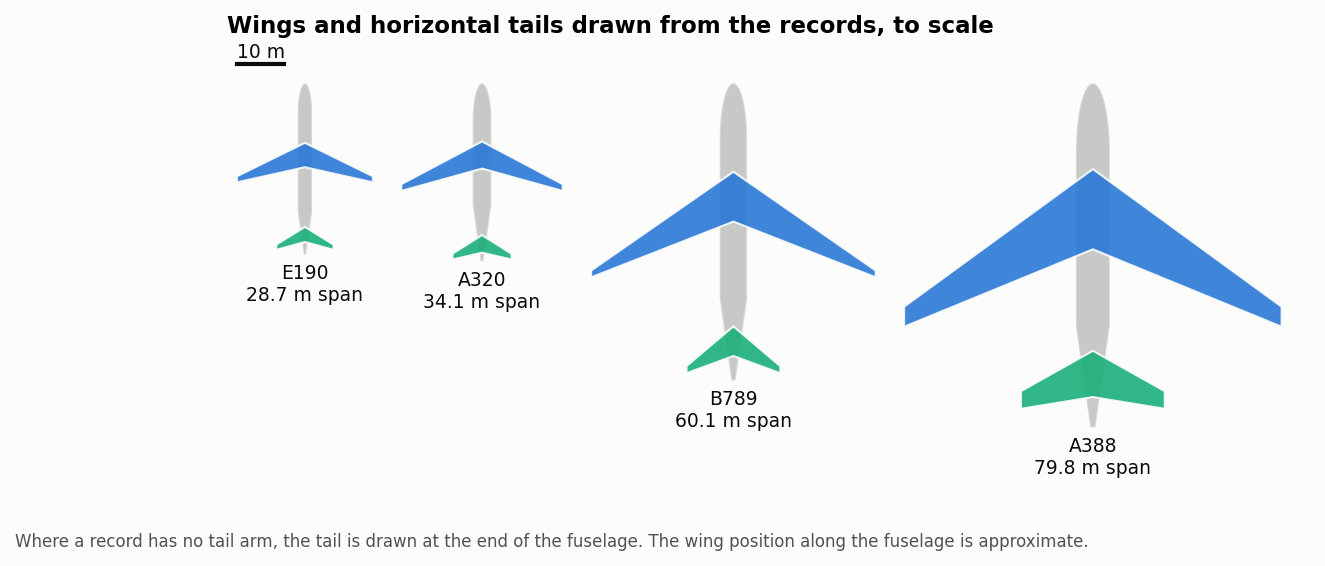
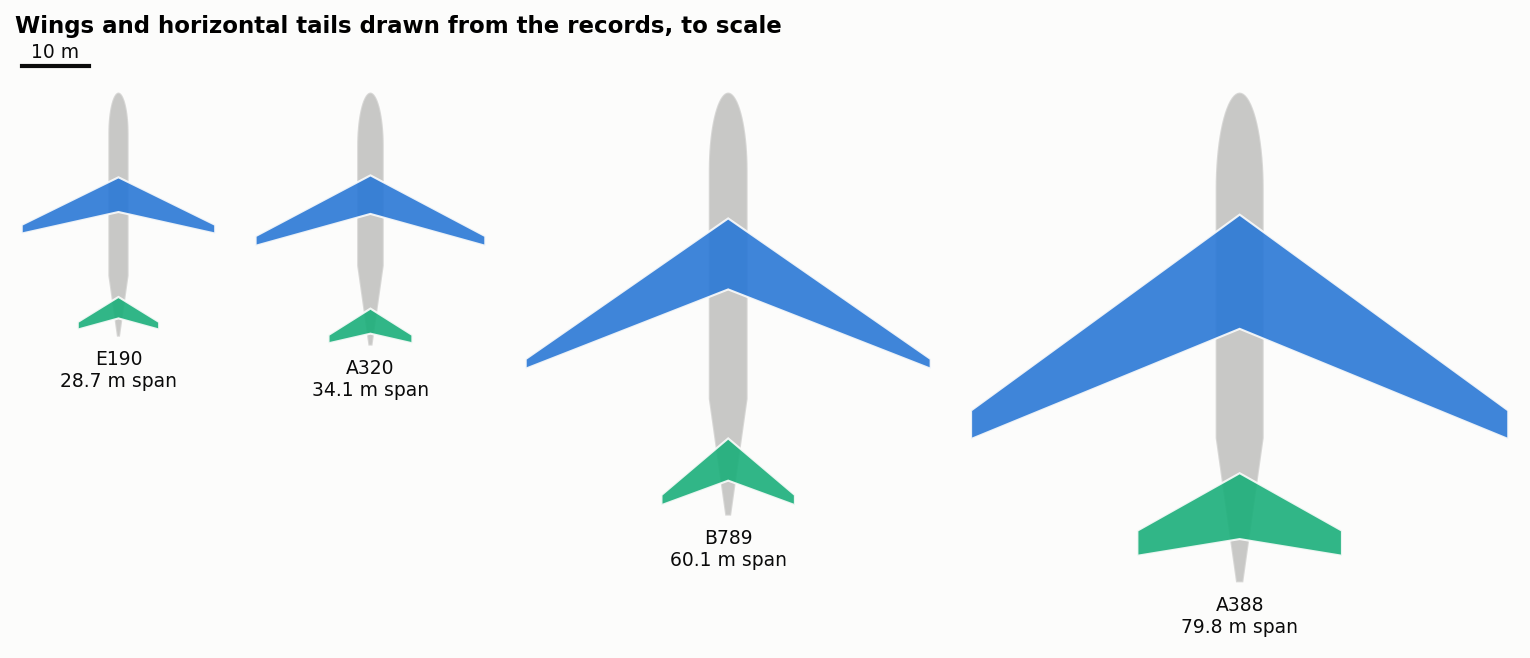
Tighten the planform figure

diff --git a/tools/make_readme_figures.py b/tools/make_readme_figures.py
@@ -315,15 +315,17 @@ def _planform_shapes(ac):
 def fig_planforms():
     codes = ["E190", "A320", "B789", "A388"]
     aircraft = [load_aircraft(c) for c in codes]
-    fig, ax = plt.subplots(figsize=(10, 3.8))
     gap = 6.0
+    length = max(ac.fuselage.length for ac in aircraft)
+    width = sum(ac.wing.span for ac in aircraft) + gap * (len(aircraft) - 1)
+    x_range = (-1.0, width + 1.0)
+    y_range = (-length - 9.0, 7.0)
+    aspect = (y_range[1] - y_range[0]) / (x_range[1] - x_range[0])
+    fig, ax = plt.subplots(figsize=(10, 10 * aspect + 0.4))
     x0 = 0.0
-    placed_any = False
     for ac in aircraft:
-        semi = ac.wing.span / 2
-        centre = x0 + semi
-        shapes, placed = _planform_shapes(ac)
-        placed_any |= placed
+        centre = x0 + ac.wing.span / 2
+        shapes, _ = _planform_shapes(ac)
         for outline, color, alpha in shapes:
             ax.add_patch(
                 Polygon(
@@ -347,22 +349,14 @@ def fig_planforms():
     # scale bar
     ax.plot([0, 10], [4, 4], color=INK, linewidth=2)
     ax.annotate("10 m", (5, 4.5), ha="center", va="bottom", fontsize=9, color=INK)
-    length = max(ac.fuselage.length for ac in aircraft)
-    ax.set_xlim(-2, x0)
-    ax.set_ylim(-length - 12, 8)
+    ax.set_xlim(*x_range)
+    ax.set_ylim(*y_range)
     ax.set_aspect("equal")
     ax.axis("off")
-    title = "Wings and horizontal tails drawn from the records, to scale"
-    ax.set_title(title, loc="left")
-    if placed_any:
-        fig.text(
-            0.01,
-            0.0,
-            "Where a record has no tail arm, the tail is drawn at the end of the "
-            "fuselage. The wing position along the fuselage is approximate.",
-            fontsize=8,
-            color=INK2,
-        )
+    ax.set_title(
+        "Wings and horizontal tails drawn from the records, to scale", loc="left"
+    )
+    fig.subplots_adjust(left=0, right=1, bottom=0, top=0.92)
     save(fig, "planforms.png")
 
 
